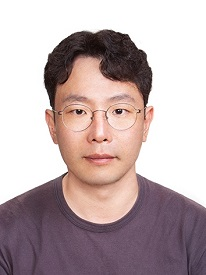
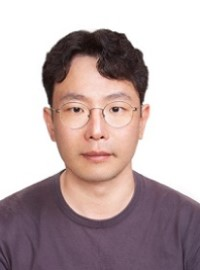
update members

diff --git a/_posts/2023-07-06-Intern.md b/_posts/2023-07-06-Intern.md
@@ -1,0 +1,11 @@
+---
+layout: post
+title: "Jeongjin, , ,  joined BML as an intern"
+date: 2023-07-06 12:00:00
+categories: [others]
+
+comments: true
+---
+
+Jeongjin, , ,  joined BML as an intern.
+Welcome to BML!
